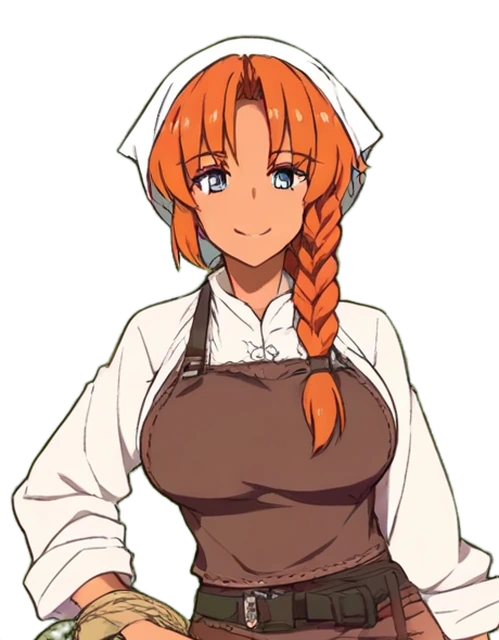
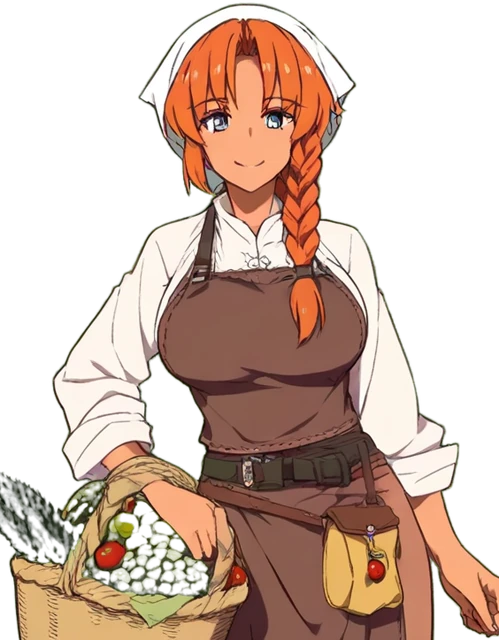
4차 반영: 새 모험가 첫인사 뒤 출발 · 쉬는 까닭 이름표 · 튜토리얼 7/7 두 명 보내기 · 마르타 초상 비율
- actors.js: 같은 주 출발 새 모험가는 「등록 중」 첫인사 뒤 출발, 쉬는 까닭 이름표(A안)
- game_core.js: departures 표시용 idle 값 (규칙 · 난수 그대로, 관문 324G/308G · 계약 16/16)
- tutorial.js: 목표 7단계, 두 명 보내기 = 튜토리얼 7 / 7
- 마르타 초상 다시 자름 (머리 크기를 다른 NPC에 맞춤)
- 4차 리포트: 6 부상 안내 · 7 화분 구별 접수, 4 · 8 · 9 반영

Claude-Session: https://claude.ai/code/session_01J3TTMGdbZ2Xf1294h6M21t

diff --git a/prototype/js/tutorial.js b/prototype/js/tutorial.js
@@ -162,7 +162,7 @@
       done() { const t = getS().tut; t.ph = 'wait'; t.nomGo = true; whenClosed(() => say('FT0006', 3, () => { t.base = true; t.noGo = false; t.step = null; t.ph = null; hold(false); })); } }
   };
   // 테스트 의견 (11-19 시안 8 → A안): 기본 튜토리얼 동안 왼쪽 위 목표 칸 = 「튜토리얼 n / 6」 · 지금 목표 · 막대 · 지금 할 일(가운데 안내와 같은 글)
-  const GOALS = ['첫 의뢰 보내기', '첫 원정 지켜보기', '테이블 놓기', '첫 요리 만들기', '집무실 짓기', '리퀘스트 보내기'];
+  const GOALS = ['첫 의뢰 보내기', '첫 원정 지켜보기', '테이블 놓기', '첫 요리 만들기', '집무실 짓기', '리퀘스트 보내기', '두 명 보내기'];   // 2026-11-23 사용자: 2명 리퀘스트를 7번째로
   let goalKey = '';
   function goalIdx(t) {
     const m = { FT0001: 0, FT0002: 0, FT0003: 1, FT0004: 2, FT0005: 3, FT0008: 3, FT0009: 4 };
@@ -172,13 +172,20 @@
   // 2026-11-23 버그 8: 튜토리얼 중에는 튜토리얼 목표만. 기본 튜토리얼이 끝나도 첫 리퀘스트가 돌아올 때까지는 「리퀘스트 보내기」를 계속 보여 줌
   const firstReqWait = () => { const s = getS(), t = s && s.tut; if (!t || !t.on || !t.base || !t.nomGo || t.req1Done) return false;
     const r = s.req && s.req.open.find(x => x.id === t.rid); if (r && (r.state === 'queued' || r.state === 'active')) return true; t.req1Done = true; return false; };
+  const req2Goal = () => { const s = getS(), t = s && s.tut; if (!t || !t.on || !t.base || !t.req1Done || t.req2Done) return null;
+    if (s.req && s.req.open.some(r => r.sure && r.state === 'open')) return '리퀘스트 장에서 모험가 2명을 지명해 보내 주세요';
+    if (s.reqNext2) return '다음 주에 새 리퀘스트가 와요'; return null; };
   function goalPaint(t, W) {
     const box = document.querySelector('#goalBox'); if (!box) return;
     if (t && firstReqWait()) {
       if (goalKey === 'req1' && box.classList.contains('tut')) return; goalKey = 'req1'; box.classList.add('tut'); const n = GOALS.length;
-      box.innerHTML = `<div class="goal-k">튜토리얼 ${n} / ${n}</div><div class="goal-t">${GOALS[n - 1]}</div><div class="goal-b"><i style="width:${Math.round((n - 1) / n * 100)}%"></i></div><div class="goal-d new">모험가가 돌아올 때까지 지켜봐 주세요</div>`;
+      box.innerHTML = `<div class="goal-k">튜토리얼 ${n - 1} / ${n}</div><div class="goal-t">${GOALS[n - 2]}</div><div class="goal-b"><i style="width:${Math.round((n - 2) / n * 100)}%"></i></div><div class="goal-d new">모험가가 돌아올 때까지 지켜봐 주세요</div>`;
       return;
     }
+    { const d2 = t && req2Goal(); if (d2) {   // 7 / 7 두 명 보내기 (1명 리퀘스트가 돌아온 뒤 ~ 2명 리퀘스트를 보낼 때까지)
+      const key = 'req2|' + d2; if (goalKey === key && box.classList.contains('tut')) return; goalKey = key; box.classList.add('tut'); const n = GOALS.length;
+      box.innerHTML = `<div class="goal-k">튜토리얼 ${n} / ${n}</div><div class="goal-t">${GOALS[n - 1]}</div><div class="goal-b"><i style="width:${Math.round((n - 1) / n * 100)}%"></i></div><div class="goal-d new">${d2}</div>`;
+      return; } }
     if (!t || !t.on || t.base) { if (box.classList.contains('tut')) { box.classList.remove('tut'); goalKey = ''; if (root.UI.goalShow) root.UI.goalShow(); } return; }
     const i = goalIdx(t), busy = root.UI.dlgBusy && root.UI.dlgBusy();
     const d = (!busy && later && bookOpen() && !(root.UI.fxBusy && root.UI.fxBusy()) ? '책을 닫으면 이어서 진행돼요' : '') || (!busy && W && W.hint && W.hint()) || (t.ph === 'week' ? '한 주가 지나면 이어서 진행돼요' : t.ph === 'away' ? '원정에서 돌아올 때까지 지켜봐 주세요' : '리나의 이야기를 들어 주세요');
@@ -292,7 +299,7 @@
     const step = back[s.tut.ph]; if (step) go(step); else hold(false);
   };
   T.active = () => { const s = getS(); return !!(s && s.tut && s.tut.on && !s.tut.base); };
-  T.goalOwn = () => T.active() || firstReqWait();   // 목표 칸을 튜토리얼이 쓰는 동안 (ui.js goalShow)
+  T.goalOwn = () => T.active() || firstReqWait() || !!req2Goal();   // 목표 칸을 튜토리얼이 쓰는 동안 (ui.js goalShow)
   T.act = act;   // 2026-11-23 버그 9: 리퀘스트 장에서 튜토리얼 리퀘스트를 바로 출발시킬 때 출발 장면도 함께
   T.onWeek = function () {   // main.js step() 뒤
     const s = getS(), t = s && s.tut; if (!t || !t.on) return;

diff --git a/prototype/js/game_core.js b/prototype/js/game_core.js
@@ -1140,19 +1140,21 @@
     for (const a of s.advs) { if (!a.alive || a.state === 'quest') continue; if (a.state === 'injured' && s.week < a.until) continue; a.state = present(s, a) || reqReserved(s, a) ? 'town' : 'away'; if (a.state === 'town') a.lastSeen = s.week; }   // lastSeen: 마지막으로 길드에 온 주
     if (mainBlocked(s)) return;   // 침공 1주 전: 의뢰 출발 금지 (2026-11-16)
     const idle = s.advs.filter(a => a.state === 'town' && !reqReserved(s, a));   // 지명 예약자는 게시판 의뢰를 받지 않음
+    for (const a of s.advs) if (a.state === 'town') { a.idleW = s.week; a.idle = reqReserved(s, a) ? 'req' : 'rest'; }   // 2026-11-23 로비 표시용: 이번 주 출발하지 않은 까닭 (규칙 · 난수와 무관)
     const QC = s.cfg.quirk;
     for (const a of idle) {
       if (a.state !== 'town') continue;
-      if (a.quirk && QC && qkSkip(s, a)) continue;   // 2026-11-20 버릇: 술꾼 늦잠 · 미신가 비 → 이번 주 게시판 의뢰를 맡지 않음
+      if (a.quirk && QC && qkSkip(s, a)) { a.idle = a.quirk === 'drunk' ? 'sleep' : 'rain'; continue; }   // 2026-11-20 버릇: 술꾼 늦잠 · 미신가 비 → 이번 주 게시판 의뢰를 맡지 않음
       const range = [[-1, 0], [-1, 1], [0, 2]][a.risk];
       let hi = Math.min(s.grade, a.grade + range[1]), lo = Math.min(hi, Math.max(0, a.grade + range[0]));   // 2026-11-12: 길드보다 1등급 높은 모험가도 길드 최고 등급 의뢰는 고름
       let th = s.cfg.adv.departTh[a.risk], sneak = false;
       if (a.quirk === 'bluff' && QC && s.R() < qkRisk(s, a, QC.bluffSneak)) { sneak = true; hi = Math.min(s.grade, hi + 1); th -= QC.bluffTh; }   // 허세꾼: 가끔 높은 등급 · 낮은 기준으로 몰래 고름
       const cands = s.board.filter(q => (q.only == null || q.only === a.id) && q.g >= lo && q.g <= hi && !cPastEnd(s, a, q.weeks || s.cfg.quest.weeks[q.g])).sort(pickOrder(s, a));   // 결정 9: 계약 끝을 넘는 의뢰는 고르지 않음
       const needy = needsMoney(s, a), base0 = feeBase0(s), K = s.cfg.econ.restK || 0;   // 2026-11-19: 기본 = feeBase (선택지 첫 칸이 5%가 됨)
+      a.idle = cands.length ? 'mates' : 'noq';
       for (const q of cands) {
         if (needy && lowBuySkip(s, q) > 0 && s.R() < lowBuySkip(s, q)) continue;   // 2026-11-19 결정 43: 매입가를 낮춘 소재가 나오는 의뢰는 돈이 필요한 모험가가 거름 (50% → 25%)
-        if (needy && K > 0 && a.quirk !== 'selfish') { const f = questFee(s, q); if (f > base0 + 1e-9 && s.R() < Math.min(1, (f - base0) / base0 * K)) continue; }   // 2026-11-17 결정 22: 돈이 필요한 모험가는 수수료가 기본보다 높으면 확률로 거름(15% → 25%, 20% → 50%), 다 거르면 이번 주는 쉼
+        if (needy && K > 0 && a.quirk !== 'selfish') { const f = questFee(s, q); if (f > base0 + 1e-9 && s.R() < Math.min(1, (f - base0) / base0 * K)) { a.idle = 'fee'; continue; } }   // 2026-11-17 결정 22: 돈이 필요한 모험가는 수수료가 기본보다 높으면 확률로 거름(15% → 25%, 20% → 50%), 다 거르면 이번 주는 쉼
         let party = [a];
         let pp = perceived(s, a, questP(s, party, q));
         if (pp < s.cfg.adv.seekTh[a.social]) {

diff --git a/prototype/js/actors.js b/prototype/js/actors.js
@@ -98,10 +98,13 @@
       } else if (ap) ac.tasks.unshift({ k: 'walk', to: ap });
     }
   }
+  // 2026-11-23 쉬는 까닭 표시 (규칙 game_core departures 가 a.idle 에 적음 · 그 주에만)
+  const REST_LAB = { mates: '동료 기다림', noq: '맞는 의뢰 없음', fee: '수수료 고민', sleep: '늦잠', rain: '비 와서 쉼', req: '리퀘스트 대기', rest: '휴식 중' };
+  const restLab = a => (a && D.s && a.idleW >= D.s.week - 1 && REST_LAB[a.idle]) || '휴식 중';
   function settle(ac) { // 앉을 자리 → 서성일 자리 → 없으면 나감
     T(ac, 'do', { fn: () => {
       const s = freeSeat(ac);
-      if (s) { ac.lab = '휴식 중'; ac.tasks.unshift({ k: 'walk', to: s.ap }, ...(sheet(ac, 'sit') ? [{ k: 'walk', to: standPos(ac, s), zMin: s.z }] : []), { k: 'sit', seat: s }); return; }
+      if (s) { ac.lab = restLab(ac.a); ac.tasks.unshift({ k: 'walk', to: s.ap }, ...(sheet(ac, 'sit') ? [{ k: 'walk', to: standPos(ac, s), zMin: s.z }] : []), { k: 'sit', seat: s }); return; }
       const li = LOITER.findIndex(l => !l.by);
       if (li >= 0) { ac.lab = '구경 중'; LOITER[li].by = ac.id; ac.loiter = li; ac.tasks.unshift({ k: 'walk', to: LOITER[li] }); return; }
       ac.lab = '떠나는 중'; ac.tasks.unshift({ k: 'walk', to: EXIT }, { k: 'remove' });
@@ -174,6 +177,7 @@
         const had = D.actors.has(a.id), ac = actor(a, EXIT);
         setParty(ac, qid); if (!had) ac.lab = '도착';
         if (!had) { T(ac, 'wait', { t: i * 0.5 }); enter(ac); } // 이번 주에 마을에 와서 바로 떠나는 경우: 입구에서 들어옴
+        if (!before.adv.has(a.id)) { LAB(ac, '등록 중'); visitWindow(ac, 'quest', { mode: 'wave', text: Speech.lina('lina_first'), dur: 1.6 }, Speech.line(a, 'first')); }   // 2026-11-23 4차 4 (ⓑ): 처음 온 주에 바로 떠나도 먼저 등록 인사 → 그 뒤 의뢰 수주 · 출발
         busy.add(a.id);
         if (x.ate && i < x.ate) { LAB(ac, '식사 중'); }
         if (x.ate && i < x.ate) visitWindow(ac, 'meal', i === 0 ? { mode: 'talk', text: Speech.linaMeal ? Speech.linaMeal(x.dish) : Speech.lina('lina_meal'), dur: SV } : null, Speech.mealLine ? Speech.mealLine(a, x.dish) : Speech.line(a, 'meal'));   // 2026-11-23 3차 8번: 먹는 요리 이름 대사 (주문 · 리나 대답)
@@ -227,7 +231,7 @@
   D.init = function (s) { D.s = s;
     for (const a of s.advs) if (a.alive && a.state === 'town') {
       const ac = actor(a, INSIDE); const st = freeSeat(ac);
-      if (st) { const sp0 = standPos(ac, st); ac.seat = st; ac.x = sp0.x; ac.y = sp0.y; ac.pose = 'sit'; ac.lab = '휴식 중'; startSit(ac, st, 'idle'); } else settle(ac);
+      if (st) { const sp0 = standPos(ac, st); ac.seat = st; ac.x = sp0.x; ac.y = sp0.y; ac.pose = 'sit'; ac.lab = restLab(ac.a); startSit(ac, st, 'idle'); } else settle(ac);
     }
   };
 

diff --git a/prototype/js/manifest.js b/prototype/js/manifest.js
@@ -69,7 +69,7 @@
     '헤르만': { key: 'npc_scholar', w: 499, h: 640, eye: [186, 101, 129, 65] },
     '대장장이': { key: 'npc_smith', w: 500, h: 640, eye: [186, 105, 130, 78] },
     '왕국 사자': { key: 'npc_envoy', w: 499, h: 640, eye: [171, 139, 113, 49] },   // 2026-11-20 던전 정복 왕국 포상
-    '마르타 (농산 상단)': { key: 'npc_marta', w: 499, h: 640, eye: [174, 150, 158, 59] }   // 2026-11-23 떠돌이 농산 상단 주인 (대사 화자 이름 그대로)
+    '마르타 (농산 상단)': { key: 'npc_marta', w: 499, h: 640, eye: [185, 96, 129, 48] }   // 2026-11-23 떠돌이 농산 상단 주인 (대사 화자 이름 그대로)
   };
   for (const n in root.NPC_PORTRAITS) { const P = root.NPC_PORTRAITS[n]; add(P.key + '_stand', 'npc/' + P.key + '_stand.webp', P.w, P.h, { optional: true }); add(P.key + '_blink', 'npc/' + P.key + '_blink.webp', P.eye[2] * 3, P.eye[3], { optional: true }); }
 

diff --git a/docs/reports/버그리포트_2026-11-23_4차.md b/docs/reports/버그리포트_2026-11-23_4차.md
@@ -8,8 +8,8 @@
 
 | 상태 | 개수 |
 | --- | ---: |
-| 접수 | 3 |
-| 수정 · 반영 | 2 |
+| 접수 | 4 |
+| 수정 · 반영 | 5 |
 
 ## 목록
 
@@ -18,8 +18,12 @@
 | 1 | 18:23 | 튜토리얼 · 의뢰 수주 | 의뢰 수주 관련 튜토리얼에서 설명이 부족함 · **18:24 보충: 「의뢰」를 누르라고 한 뒤 게시판 화면만 보여 주고 끝남** · [캡처](qa_1123_4/1_게시판_안내끝.png) | 중간 | 지금 대사(`data/tutorial.csv`)는 「게시판에서 하나 고르면 된다」(FT0002) · 「알아서 떠난다」(FT0003)뿐. **빠진 설명:** ① 모험가는 자기 등급 근처 의뢰만 고름 ② 혼자 성공률이 낮으면 동료를 기다림(18:22 분석: 마을에 남은 경우의 75%) ③ 게시판 등급별 칸 배분(첫 인사 「왼쪽 위 게시판에서 등급별 칸 배분을 정하면…」만 있고 화면 안내 없음) ④ 수수료(FT0013 집무실 뒤). 같이 찾은 것: FT0016 대사에 옛 용어 「길드 발주」 → 지금은 「길드 의뢰」 → 상황별 안내 FT0013(집무실 뒤 · 수수료)이 `[data-pop="board"]` 하나만 가리키고 끝남. 3차 6 · 7 · 9번처럼 여러 단계로: 의뢰 → **의뢰 배분 막대**(「막대가 많을수록 그 등급 의뢰를 많이 받습니다」) → **기본 수수료 칸**(5 · 10 · 15%) 차례로 밝히고 칸마다 짧은 설명 | — | 수정 · 반영 (18:25 「그래줄래?」): 수수료 안내(FT0013)를 3단계로 — 의뢰 → 의뢰 배분 막대 → 기본 수수료(열린 칸) 차례로 밝히고 칸마다 설명, 밝힌 칸을 누르면 다음 |
 | 2 | 18:24 | 의뢰 장 · 의뢰 상세 (오른쪽 아래) | (캡처에서 같이 발견) 「기한 …(지나면 사라지고 신뢰도 −1) · 취소하면 10G, 신뢰도 −2」 글이 「의뢰 취소」 단추와 겹쳐 보임. 왼쪽 「F급 기본 수수료」 글자도 두 줄로 꺾임 · [캡처](qa_1123_4/1_게시판_안내끝.png) | 낮음 | 의뢰 상세 아래 칸 배치 (`ui.js` 게시판 장 · `book.css`). UI라 시안 필요 | — | 접수 |
 | 3 | 18:27 | 상황별 안내 · 경영 → 장부 (FT0010 · FT0021) | 경영 → 장부 튜토리얼도 설명이 부족함 | 중간 | 3차 6번에서 장부를 여는 데까지만 가리키게 했음. 장부 안에서 볼 곳 설명이 없음 | A | 수정 · 반영: 장부를 연 뒤 수입 → 지출 → 순이익 → 길드 승급 차례로 밝히고 설명 (밝힌 칸을 누르면 다음) |
-| 4 | 18:34 | 로비 · 새 모험가 합류 | 새 모험가가 왔을 때, 합류 메시지가 나오기 전에 이미 로비에 들어와 의뢰를 받고 떠남 | 중간 | `game_core.js` `stepWeek`: 명성으로 합류(`spawnAdv`, 2082행 근처)가 같은 주 출발 판정(`departures`, 2094행)보다 **먼저** → 오자마자 그 주에 의뢰를 맡음. 로비 연출(도착 → 출발)과 기록 · 대사(「…길드를 처음 찾아왔습니다」)가 거의 같은 순간이라 순서가 뒤집혀 보임. 후보: 합류한 주는 출발하지 않음(한 주 구경) 또는 도착 메시지 뒤로 출발 연출을 미룸. 「모험가 개선작업」 이름 짓기 팝업과도 맞물림 | — | 접수 |
+| 4 | 18:34 | 로비 · 새 모험가 합류 | 새 모험가가 왔을 때, 합류 메시지가 나오기 전에 이미 로비에 들어와 의뢰를 받고 떠남 | 중간 | `game_core.js` `stepWeek`: 명성으로 합류(`spawnAdv`, 2082행 근처)가 같은 주 출발 판정(`departures`, 2094행)보다 **먼저** → 오자마자 그 주에 의뢰를 맡음. 로비 연출(도착 → 출발)과 기록 · 대사(「…길드를 처음 찾아왔습니다」)가 거의 같은 순간이라 순서가 뒤집혀 보임. 후보: 합류한 주는 출발하지 않음(한 주 구경) 또는 도착 메시지 뒤로 출발 연출을 미룸. 「모험가 개선작업」 이름 짓기 팝업과도 맞물림 | — | 수정 · 반영 (18:40 사용자 「1.b」): 같은 주에 떠나는 새 모험가는 로비에서 먼저 「등록 중」 → 리나 첫인사 · 모험가 첫 대사를 마친 뒤 출발 (`actors.js`, 규칙 · 수치는 그대로) |
 | 5 | 18:38 | 왼쪽 아래 기록창 · NPC 말풍선 | 기록창이 사라질 때 바르톨(NPC) 말풍선 크기가 바뀜 (캡처로 잘 안 담김) · [캡처 1](qa_1123_4/5_기록창_말풍선_전.png) · [캡처 2](qa_1123_4/5_기록창_말풍선_후.png) | 낮음 | 모험가 · 리나 줄은 얼굴 아이콘 + 이름 줄이 있는데, NPC(바르톨) 줄은 아이콘 없이 이름만 → 말풍선 폭 · 줄바꿈 규칙이 달라 보임. 기록창이 사라지며(투명 · 크기 전환) 그 줄만 폭이 다시 계산되는 것으로 보임 (`ui.js` 기록 상자 · `index.html` 기록창 CSS) | — | 접수 |
+| 6 | 18:48 | 상황별 안내 · 첫 부상 (FT0017) | 첫 부상 튜토리얼도 설명이 더 있어야 함 · [캡처](qa_1123_4/6_부상_안내부족.png) | 중간 | 3차 11번에서 모험가 장 → 다친 모험가 줄까지만 가리킴. 상세에서 볼 곳(「부상 회복 ○주」 표시 · 다친 동안 의뢰를 못 감 · 회복을 돕는 방법) 설명이 없음. 같이 본 것: 캡처의 고든은 「부상 회복 0주」로 보임 → 남은 주가 0인데 표시가 남는지 확인 필요 | — | 접수 |
+| 7 | 18:42 | 시설 장 · 설비 | 화분을 놓을 수 있는데, 색감 때문에 지을 수 있는지 구별이 잘 안 됨 · [캡처](qa_1123_4/7_화분_지을수있는지.png) | 중간 | 놓을 수 있는 칸(화분 150G)과 잠긴 칸 · 돈이 모자란 칸(벤치 400G 빨강)의 차이가 그림 밝기 정도뿐. UI라 시안 필요 (1280 · 1920) | — | 접수 |
+| 8 | 18:43 | 대화 · 마르타 초상 | 다른 일러스트처럼 비율 조절 필요 (얼굴이 크게 보임) · [캡처](qa_1123_4/8_마르타_비율.png) | 낮음 | 처음 자를 때 다른 NPC보다 약 1.2배 크게 잘림 (눈 폭 158px vs 다른 NPC 125~131px) | — | 수정 · 반영: 원본에서 다시 잘라 머리 크기를 다른 NPC(행상인 등)에 맞춤 · 눈 깜빡임 칸도 다시 맞춤 |
+| 9 | 18:40 | 로비 · 쉬는 모험가 이름표 | (사용자 결정 「2.반영」) 쉬는 까닭이 안 보여 휴식이 많아 보임 | 낮음 | 18:22 분석: 마을에 남은 경우의 75%가 동료 기다림 | — | 수정 · 반영 (A안): 「휴식 중」 대신 동료 기다림 · 맞는 의뢰 없음 · 수수료 고민 · 늦잠 · 비 와서 쉼 · 리퀘스트 대기 (`game_core.js` 표시용 값만 · 난수 그대로) |
 
 ## 자세히
 
